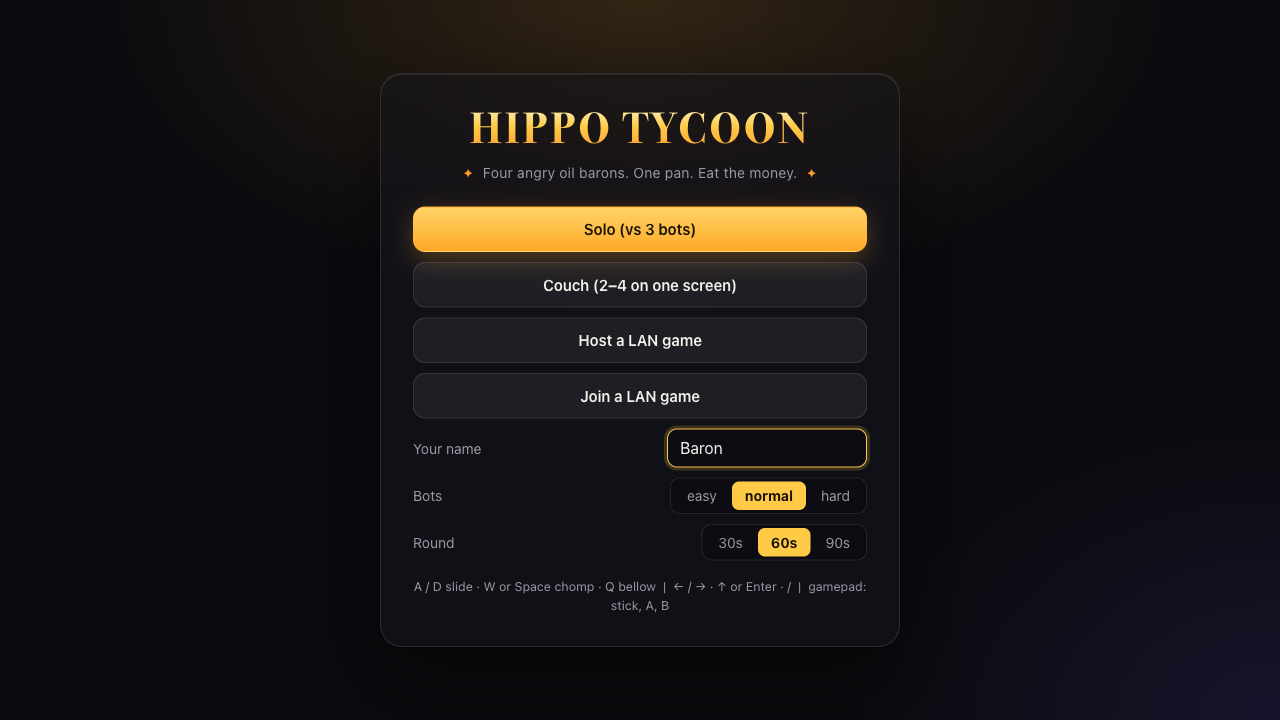
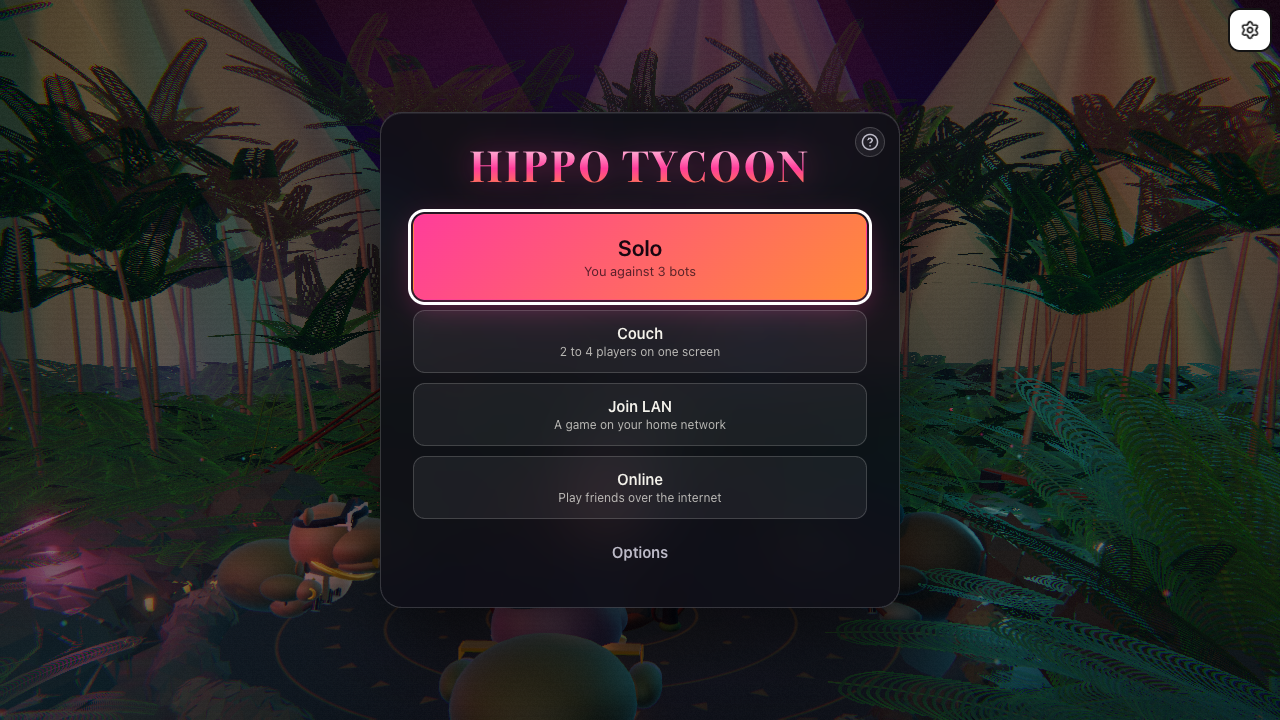
Hippo Tycoon: the first card is the ways to play, Solo big; the rest moves under Options (#5530)
* Hippo Tycoon: the first card is the ways to play, Solo big; name, bots, players and round length move under Options

Each way to play says what it is in a short line. The picks keep what a returning player chose (they were already saved).

* Hippo Tycoon: the README's menu picture shows the new first card

* Hippo Tycoon: the menu picture's alt text says what the new first card shows

---------

diff --git a/apps/hippo-tycoon/test/menu.test.ts b/apps/hippo-tycoon/test/menu.test.ts
@@ -1,0 +1,58 @@
+// A newcomer on a phone, through the running page in headless Chrome (scripts/chrome.ts): the first card is the ways to
+// play and Options, one tap on Solo starts a round, and the name, bots, players and round length wait under Options,
+// where a returning player finds what they picked last time.
+import { afterAll, beforeAll, expect, setDefaultTimeout, test } from "bun:test";
+import { join } from "node:path";
+import { launchChrome, load, openTab, startVite } from "../../../scripts/chrome.ts";
+
+setDefaultTimeout(120_000);
+
+let chrome: Awaited<ReturnType<typeof launchChrome>>;
+let vite: Awaited<ReturnType<typeof startVite>>;
+beforeAll(async () => { [chrome, vite] = await Promise.all([launchChrome(), startVite(join(import.meta.dir, ".."))]); });
+afterAll(() => { chrome?.stop(); vite?.stop(); });
+
+const sleep = (ms: number) => new Promise((r) => setTimeout(r, ms));
+
+test("a newcomer's first card is the ways to play, Solo is one tap to a round, and the picks under Options stay picked", async () => {
+  const tab = await openTab(chrome.cdp, { w: 390, h: 844 }, true);
+  const page = <T>(expr: string) => tab.eval<T>(`(async () => (${expr}))()`);
+  const until = async (what: string, expr: string, ms = 30_000) => {
+    for (const end = Date.now() + ms; Date.now() < end; await sleep(50)) if (await page(expr).catch(() => false)) return;
+    throw new Error(`never saw ${what}`);
+  };
+  // What a person can see and press: each button's own words (its first line), and the controls on screen.
+  const tap = (word: string) => page(`[...document.querySelectorAll("button")].find((b) => b.firstChild?.textContent?.trim() === ${JSON.stringify(word)}).click()`);
+  /** The choices shown as picked in the row a screen reader names `label`. */
+  const pressed = (label: string) => page<string[]>(`(() => { const id = [...document.querySelectorAll("label")].find((l) => l.textContent === ${JSON.stringify(label)}).id;
+    return [...document.querySelectorAll('[aria-labelledby="' + id + '"] button[aria-pressed="true"]')].map((b) => b.textContent); })()`);
+  const card = () => page<{ buttons: string[]; fields: number }>(`(() => { const c = document.querySelector(".menu .card .col");
+    return { buttons: [...c.querySelectorAll("button")].map((b) => b.firstChild.textContent.trim()), fields: c.querySelectorAll("input, [role=group]").length }; })()`);
+
+  await load(chrome.cdp, tab, vite.url, 0);
+  await until("the menu", `!!document.querySelector(".menu .card .col button")`);
+  const first = await card();
+  expect(first.buttons[0]).toBe("Solo");
+  expect(first.buttons.filter((b) => !["Solo", "Couch", "Join LAN", "Online", "Options"].includes(b))).toEqual([]);
+  expect(first.fields).toBe(0);
+
+  // Under Options: harder bots and a short round, then back out and in again later.
+  await tap("Options");
+  await until("the options", `!!document.querySelector('[role="dialog"]')`);
+  await tap("hard");
+  await tap("30s");
+  expect(await pressed("Bots")).toEqual(["hard"]);
+  await tap("Done");
+  await load(chrome.cdp, tab, vite.url, 0);
+  await until("the menu again", `!!document.querySelector(".menu .card .col button")`);
+  await tap("Options");
+  await until("the options again", `!!document.querySelector('[role="dialog"]')`);
+  expect([await pressed("Bots"), await pressed("Round length")]).toEqual([["hard"], ["30s"]]);
+  await tap("Done");
+
+  // One tap from the menu to a round of your own.
+  await tap("Solo");
+  await until("a solo round", `window.hippoTycoon?.state().round?.mine.length === 1`, 60_000);
+  expect(tab.noise.filter((n) => !n.startsWith("HTTP "))).toEqual([]);
+  await tab.close();
+});

diff --git a/apps/hippo-tycoon/src/client/ui/Options.tsx b/apps/hippo-tycoon/src/client/ui/Options.tsx
@@ -1,6 +1,7 @@
 // Options: motion, the film look, quality, and the three sound switches. Saved
 // locally with the other settings (see settings.ts).
 import { useEffect, useRef } from "react";
+import { DIFFICULTIES, ROUND_SECS, type Difficulty } from "../../sim/rules.ts";
 import { QUALITIES, systemPrefersReducedMotion, type Quality, type Settings } from "../settings.ts";
 import { Seg } from "./Menu.tsx";
 
@@ -35,8 +36,24 @@ export function OptionsPanel({ settings, onSettings }: { settings: Settings; onS
   );
 }
 
-/** The options as a dialog: focus moves in, Tab stays in, Escape closes, focus goes back. */
-export function OptionsDialog({ settings, onSettings, onClose }: { settings: Settings; onSettings: (s: Settings) => void; onClose: () => void }) {
+/** The next game's own picks, under Options on the menu: your name, the bots, players on this device and round length. */
+export function GamePanel({ settings, onSettings }: { settings: Settings; onSettings: (s: Settings) => void }) {
+  const set = (p: Partial<Settings>) => onSettings({ ...settings, ...p });
+  return (
+    <div className="col options">
+      <div className="row"><label htmlFor="o-name">Your name</label><input id="o-name" className="text" style={{ width: 200 }} maxLength={32} value={settings.name} placeholder="Tycoon" onChange={(e) => set({ name: e.target.value })} /></div>
+      <div className="row"><label id="o-bots">Bots</label><Seg<Difficulty> labelledBy="o-bots" value={settings.difficulty} options={DIFFICULTIES} onChange={(difficulty) => set({ difficulty })} /></div>
+      <div className="opt">
+        <div className="row"><label id="o-players">On this device</label><Seg<1 | 2> labelledBy="o-players" value={settings.players} options={[1, 2]} label={(n) => (n === 1 ? "1 player" : "2 players")} onChange={(players) => set({ players })} /></div>
+        <p className="note">For a home-network or online game.</p>
+      </div>
+      <div className="row"><label id="o-round">Round length</label><Seg<number> labelledBy="o-round" value={settings.secs} options={ROUND_SECS} label={(s) => `${s}s`} onChange={(secs) => set({ secs })} /></div>
+    </div>
+  );
+}
+
+/** The options as a dialog (with the next game's picks first when opened from the menu): focus moves in, Tab stays in, Escape closes, focus goes back. */
+export function OptionsDialog({ settings, onSettings, onClose, game }: { settings: Settings; onSettings: (s: Settings) => void; onClose: () => void; game?: boolean }) {
   const box = useRef<HTMLDivElement>(null);
   const close = useRef(onClose); close.current = onClose;
   useEffect(() => {
@@ -57,6 +74,7 @@ export function OptionsDialog({ settings, onSettings, onClose }: { settings: Set
     <div className="modal" role="dialog" aria-modal="true" aria-labelledby="options-title" onClick={(e) => { if (e.target === e.currentTarget) onClose(); }}>
       <div className="card" ref={box}>
         <h2 id="options-title" className="title" style={{ fontSize: 28, marginBottom: 18 }}>Options</h2>
+        {game && <><GamePanel settings={settings} onSettings={onSettings} /><hr className="split" /></>}
         <OptionsPanel settings={settings} onSettings={onSettings} />
         <button className="btn go" style={{ width: "100%", marginTop: 18 }} onClick={onClose}>Done</button>
       </div>

diff --git a/apps/hippo-tycoon/src/client/ui/Menu.tsx b/apps/hippo-tycoon/src/client/ui/Menu.tsx
@@ -1,5 +1,4 @@
 import { useState } from "react";
-import { DIFFICULTIES, ROUND_SECS, type Difficulty } from "../../sim/rules.ts";
 import type { Settings } from "../settings.ts";
 import { About, ControlHint } from "./Help.tsx";
 import { Account } from "./Account.tsx";
@@ -35,18 +34,15 @@ export function Menu({ settings, onSettings, onSolo, onCouch, extra, note }: Men
           <ControlHint seats={[{ name: "You", ctls: ["kbAll", "touch", "pad0"] }]} />
         </About>
         <div className="col">
-          <button className="btn go" onClick={onSolo} autoFocus title="You against 3 bots">Solo</button>
-          <button className="btn" onClick={onCouch} title="2–4 players on one screen">Couch</button>
+          {/* The ways to play and nothing else: name, bots, players and round length wait under Options, as last picked. */}
+          <button className="btn go big" onClick={onSolo} autoFocus>Solo<small>You against 3 bots</small></button>
+          <button className="btn" onClick={onCouch}>Couch<small>2 to 4 players on one screen</small></button>
           {extra}
           <Account note={note} />
-          <div className="row"><label htmlFor="menu-name">Name</label><input id="menu-name" className="text" style={{ width: 200 }} maxLength={32} value={settings.name} placeholder="Tycoon" onChange={(e) => onSettings({ ...settings, name: e.target.value })} /></div>
-          <div className="row"><label id="menu-bots">Bots</label><Seg<Difficulty> labelledBy="menu-bots" value={settings.difficulty} options={DIFFICULTIES} onChange={(difficulty) => onSettings({ ...settings, difficulty })} /></div>
-          <div className="row"><label id="menu-players" title="Players on this machine, in a LAN or online game">Here</label><Seg<1 | 2> labelledBy="menu-players" value={settings.players} options={[1, 2]} label={(n) => (n === 1 ? "1 player" : "2 players")} onChange={(players) => onSettings({ ...settings, players })} /></div>
-          <div className="row"><label id="menu-round">Round</label><Seg<number> labelledBy="menu-round" value={settings.secs} options={ROUND_SECS} label={(s) => `${s}s`} onChange={(secs) => onSettings({ ...settings, secs })} /></div>
-          <button className="btn" onClick={() => setOptions(true)}>Options</button>
+          <button className="btn quiet" onClick={() => setOptions(true)}>Options</button>
         </div>
       </main>
-      {options && <OptionsDialog settings={settings} onSettings={onSettings} onClose={() => setOptions(false)} />}
+      {options && <OptionsDialog game settings={settings} onSettings={onSettings} onClose={() => setOptions(false)} />}
     </div>
   );
 }

diff --git a/apps/hippo-tycoon/src/client/App.tsx b/apps/hippo-tycoon/src/client/App.tsx
@@ -82,9 +82,9 @@ export function App({ signInNote }: { signInNote?: string } = {}) {
     : screen.t === "joinOnline" ? <JoinOnline onBack={() => setScreen({ t: "menu" })} onJoin={(room) => playNet(() => onlineSocket(room, name))} />
     : <Menu note={signInNote} settings={settings} onSettings={update} onSolo={() => playLocal(SOLO_CTL)} onCouch={() => setScreen({ t: "couch" })}
         extra={<>
-          {desktop && <button className="btn" onClick={hostLan}>Host LAN</button>}
-          {canJoinLan && <button className="btn" onClick={() => setScreen({ t: "joinLan" })}>Join LAN</button>}
-          {!desktop && <button className="btn" onClick={() => setScreen({ t: "joinOnline" })}>Online</button>}
+          {desktop && <button className="btn" onClick={hostLan}>Host LAN<small>Friends on your home network join you</small></button>}
+          {canJoinLan && <button className="btn" onClick={() => setScreen({ t: "joinLan" })}>Join LAN<small>A game on your home network</small></button>}
+          {!desktop && <button className="btn" onClick={() => setScreen({ t: "joinOnline" })}>Online<small>Play friends over the internet</small></button>}
           {screen.error && <p className="err" role="alert">{screen.error}</p>}
         </>} />;
   return <><Backdrop view={view} />{page}</>;

diff --git a/apps/hippo-tycoon/src/client/style.css b/apps/hippo-tycoon/src/client/style.css
@@ -40,6 +40,11 @@ button, input, select { font: inherit; color: inherit; }
 .btn:disabled { opacity: 0.35; cursor: not-allowed; }
 .btn.go { background: linear-gradient(135deg, #ff3d9a, #ff8a3a); border-color: transparent; color: #1a0610; box-shadow: 0 8px 28px rgba(255, 61, 154, 0.35); }
 .btn.go:hover:not(:disabled) { background: linear-gradient(135deg, #ff5aac, #ffa05a); }
+.btn small { display: block; margin-top: 2px; font-weight: 400; font-size: 12px; opacity: 0.72; }
+.btn.big { padding: 20px 18px; font-size: 22px; }
+.btn.big small { font-size: 13px; }
+.btn.quiet { background: none; border-color: transparent; color: var(--dim); }
+.split { border: 0; border-top: 1px solid var(--line); margin: 18px 0; }
 .row { display: flex; gap: 12px; align-items: center; justify-content: space-between; }
 .row > label { color: var(--dim); font-size: 14px; }
 .seg { display: inline-flex; padding: 3px; gap: 2px; border: 1px solid var(--line); border-radius: 10px; background: rgba(0, 0, 0, 0.25); }

diff --git a/apps/hippo-tycoon/README.md b/apps/hippo-tycoon/README.md
@@ -125,7 +125,7 @@ Deploying is yours to run: `bunx rustybuns plan` (creates nothing; it lists `[Bu
 
 | Menu | A round |
 |---|---|
-| ![The menu: Solo, Couch, Host and Join a LAN game, your name, bot difficulty and round length](docs/menu.png) | ![A round in progress: the net-worth HUD, 15 seconds left, drops on the pan](docs/round.png) |
+| ![The menu: a big Solo button, then Couch, Join LAN and Online, each with a short line saying what it is, and Options below](docs/menu.png) | ![A round in progress: the net-worth HUD, 15 seconds left, drops on the pan](docs/round.png) |
 
 | | Slide | Chomp | Bellow (ready) |
 |---|---|---|---|
